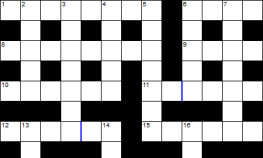
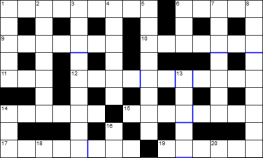
Added POTD 032

diff --git a/potd/potd032.html b/potd/potd032.html
@@ -2,15 +2,82 @@
 <html lang="en">
 <head>
 <meta charset="utf-8"/>
-<link rel="stylesheet" type="text/css" href="../potd.css"/>
-<title>POTD Placeholder Clue</title>
+<meta name="viewport" content="width=device-width, initial-scale=1"/>
+
+<!--
+MIT License
+
+Copyright (c) 2019 Viresh Ratnakar
+
+See the full license notice in exolve-m.js.
+
+Version: Exolve v1.08 March 12 2021
+-->
+
+<link rel="stylesheet" type="text/css" href="../exolve-m.css?v1.08"/>
+<script src="../exolve-m.js?v1.08"></script>
+
+<link rel="stylesheet" type="text/css" href="../overrides.css"/>
+<script id="ant-code" group-id="potd" show-parse="1" src="../additions.js"></script>
+<link rel="icon" href="../favicon.ico" />
+
+<title>13 x 13 Quick Cryptic Nº 2</title>
+
 </head>
 <body>
-  <div class="clue">
-    <p>Servers are the recipients of good things (5,3,4)</p>
-  </div>
-  <div class="spoiler">
-    <p>THOSE WHO WAIT | Double definition</p>
-  </div>
+
+<script>
+createExolve(`
+exolve-begin
+  exolve-width: 13
+  exolve-height: 13
+  exolve-id: potd032
+  exolve-title: 13 x 13 Quick Cryptic Nº 2
+  exolve-setter: <a href="https://www.reddit.com/user/Antagony" target="_blank">Antagony</a>
+  exolve-grid:
+    SEVERING.TAMP
+    .V.L.D.A.H.O.
+    RETAILED.RITZ
+    .R.T.E.D.O.T.
+    LYRICS.ASWELL
+    ...O...F...E.
+    OPENUP.INSIDE
+    .R...U...H...
+    TICKET.LOOKON
+    .V.O.T.A.W.N.
+    PAIR.INTIMATE
+    .T.E.N.H.A.H.
+    VEGA.GUERNSEY
+  exolve-across:
+    1 ~{Cutting off}~ call on number displaying no name (8) RING {call} <i>after</i> {on} <b>SEVE</b><i>n</i> {number} minus {displaying no} <b>N</b><i>ame</i>
+    6 ~{Pack}~ of standard cards omitting spades (every second one) (4) second letter acrostic {every second one}: <i>s</i><b>T</b><i>andard</i> <i>c</i><b>A</b><i>rds</i> <i>o</i><b>M</b><i>itting</i> <i>s</i><b>P</b><i>ades</i>
+    8 ~{Traded}~ on dog breeding essentially (8) RE {on} TAIL {dog} <i>bre</i><b>ED</b><i>ing</i> {essentially}
+    9 See 14d
+    10 Cyril’s harsh ~{words}~ (6) CYRIL’S* {harsh}
+    11 ~{Plus}~ size originally inspired by a source (2,4) <b>S</b><i>ize</i> {originally} env. {inspired by} (A + WELL {source})
+    12 ~{Get ‘candid’}~ ~{shoot now}~? (4,2) DD
+    15 ~{Imprisoned}~ at home by fringe (6) IN {at home} + SIDE {fringe}
+    17 ~{Pass}~ over borders of the Khmer Republic and mention wanting closure (6) Rev. {over} (<b>T</b><i>h</i><b>E</b> {borders of} + K {Khmer Republic} + <b>CIT</b><i>e</i> {mention} minus last letter {wanting closure})
+    19 Approve of wearing diver’s ~{watch}~ (4,2) OK {Approve of} env. {wearing} LO·ON {diver}
+    21 ~{Mate}~ pulled over during safari, apparently (4) rev. {pulled over} HA {during} <i>safa</i><b>RI AP</b><i>parently</i>
+    22 ~{Close}~ ~{state}~ (8) DD
+    23 ~{Maybe Suzanne}~’s a ~{star}~? (4) DD (1st US folk singer, big in the ‘80s)
+    24 ~{Lower}~ ~{island}~? (8) DD (Lower = that which lows, e.g. a cow)
+  exolve-down:
+    2 ~{The best possible}~ first lady’s really losing heart (5) EVE {first lady} + <b>R</b><i>eall</i><b>Y</b> middle removed {losing heart} | Def: as in e.g. “every effort…”
+    3 Concocting a line to ~{delight}~ (7) (A LINE TO)* {Concocting}
+    4 Nancy’s the first aide in essence and ~{does nothing}~! (5) LES {Nancy’s (i.e. French city’s) ‘the’} + <i>a</i><b>ID</b><i>e</i> {essentially} beforehand {first}
+    5 ~{Despot}~ leads uprising in indiscriminate firing and doesn’t deny advancing genocide! (7) Rev. {uprising} acrostic {leads in} <b>I</b><i>ndiscriminate</i> <b>F</b><i>iring</i> <b>A</b><i>nd</i> <b>D</b><i>oesn’t</i> <b>D</b><i>eny</i> <b>A</b><i>dvancing</i> <b>G</b><i>enocide </i>
+    6 ~{Cover}~ ~{project}~ (5) DD
+    7 ~{Tabby}~ medicine’s laced with organic tallow to lubricate their mouths (7) <b>M·ED</b><i>icine</i> env. {laced with} (acrostic {their mouths} <b>O</b><i>rganic</i> <b>T</b><i>allow</i> <b>T</b><i>o</i> <b>L</b><i>ubricate</i>)
+    13 One against participating in foolish talk ~{off the record}~ (7) (I {One} + V {against}) env. {participating in} PR·ATE {foolish talk}
+    14, 20, 9 ~{Showing off abundance}~ of golfing skill at a posh hotel’s expense (7,2,3,4) PUTTING {golfing skill} + ON THE RITZ {at a posh hotel’s expense}
+    16 ~{Perhaps Barnum}~’s now involved with sham? (7) (NOW + SHAM)* {involved}
+    18 Pinko reactionary's hiding ~{place}~ (5) HA {hiding} <i>pin</i><b>KO REA</b><i>ctionary</i>
+    19 ~{Turner}~’s the landscape artist initially on top (5) THE with <b>L</b><i>andscape</i> <b>A</b><i>rtist</i> {initially} beforehand {on top}
+    20 See 14d
+exolve-end
+`);
+</script>
 </body>
 </html>

diff --git a/potd.html b/potd.html
@@ -12,7 +12,15 @@
       Puzzles</a></h1>
   <div class="album">
 
-    <div class="album_item"><a href="potd/potd031.html"   target="_blank"><img class="album__artwork" src="images/potd/thumb-032.png" alt="puzzle-thumbnail-031" /></a>
+    <div class="album_item"><a href="potd/potd032.html"   target="_blank"><img class="album__artwork" src="images/potd/thumb-032.png" alt="puzzle-thumbnail-032" /></a>
+      <a href="potd/potd032.html"   target="_blank">
+        <div class="album__details">
+          <h2>POTD 032<br>by Antagony</h2>
+        </div>
+      </a>
+    </div>
+
+    <div class="album_item"><a href="potd/potd031.html"   target="_blank"><img class="album__artwork" src="images/potd/thumb-031.png" alt="puzzle-thumbnail-031" /></a>
       <a href="potd/potd031.html"   target="_blank">
         <div class="album__details">
           <h2>POTD 031<br>by NowIAmReadyToStart</h2>
@@ -260,14 +268,6 @@
       </a>
     </div>
 
-    <div class="album_item"><a href="potd/potd032.html"   target="_blank"><img class="album__artwork" src="images/potd/unavailable.png" alt="puzzle-thumbnail-032" /></a>
-      <a href="potd/potd032.html"   target="_blank">
-        <div class="album__details">
-          <h2>POTD 032<br>by [TBA]</h2>
-        </div>
-      </a>
-    </div>
-
     <div class="album_item"><a href="potd/potd033.html"   target="_blank"><img class="album__artwork" src="images/potd/unavailable.png" alt="puzzle-thumbnail-033" /></a>
       <a href="potd/potd033.html"   target="_blank">
         <div class="album__details">
@@ -288,6 +288,14 @@
       <a href="potd/potd035.html"   target="_blank">
         <div class="album__details">
           <h2>POTD 035<br>by [TBA]</h2>
+        </div>
+      </a>
+    </div>
+
+    <div class="album_item"><a href="potd/potd036.html"   target="_blank"><img class="album__artwork" src="images/potd/unavailable.png" alt="puzzle-thumbnail-036" /></a>
+      <a href="potd/potd036.html"   target="_blank">
+        <div class="album__details">
+          <h2>POTD 036<br>by [TBA]</h2>
         </div>
       </a>
     </div>

diff --git a/potd/potd036.html b/potd/potd036.html
@@ -1,0 +1,16 @@
+<!DOCTYPE html>
+<html lang="en">
+<head>
+<meta charset="utf-8"/>
+<link rel="stylesheet" type="text/css" href="../potd.css"/>
+<title>POTD Placeholder Clue</title>
+</head>
+<body>
+  <div class="clue">
+    <p>Servers are the recipients of good things (5,3,4)</p>
+  </div>
+  <div class="spoiler">
+    <p>THOSE WHO WAIT | Double definition</p>
+  </div>
+</body>
+</html>

diff --git a/additions.js b/additions.js
@@ -3,7 +3,7 @@
 
 //The last document number for the appropriate set of puzzles
 const lastAotw = 14;
-const lastPotd = 31;
+const lastPotd = 32;
 
 //Get the group-id, to determine which last document number applies
 var lastDocNum;
